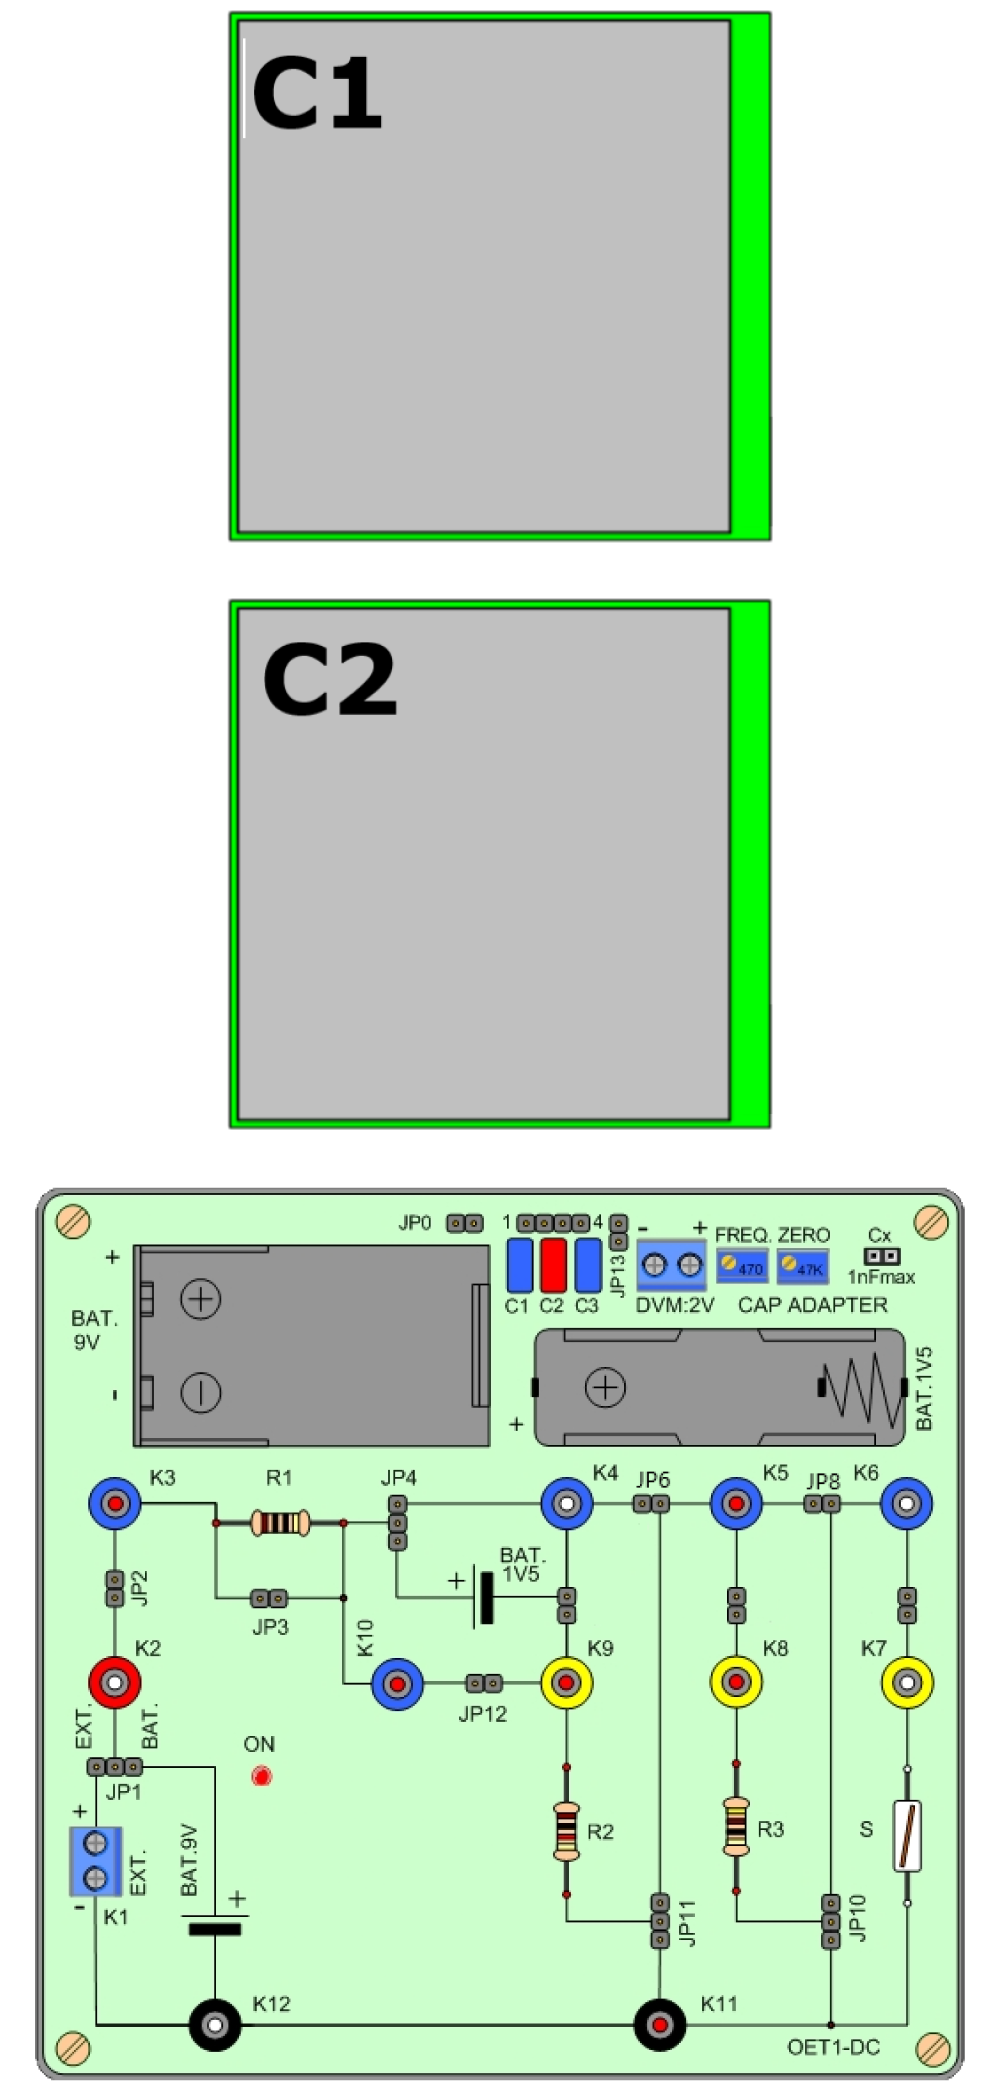
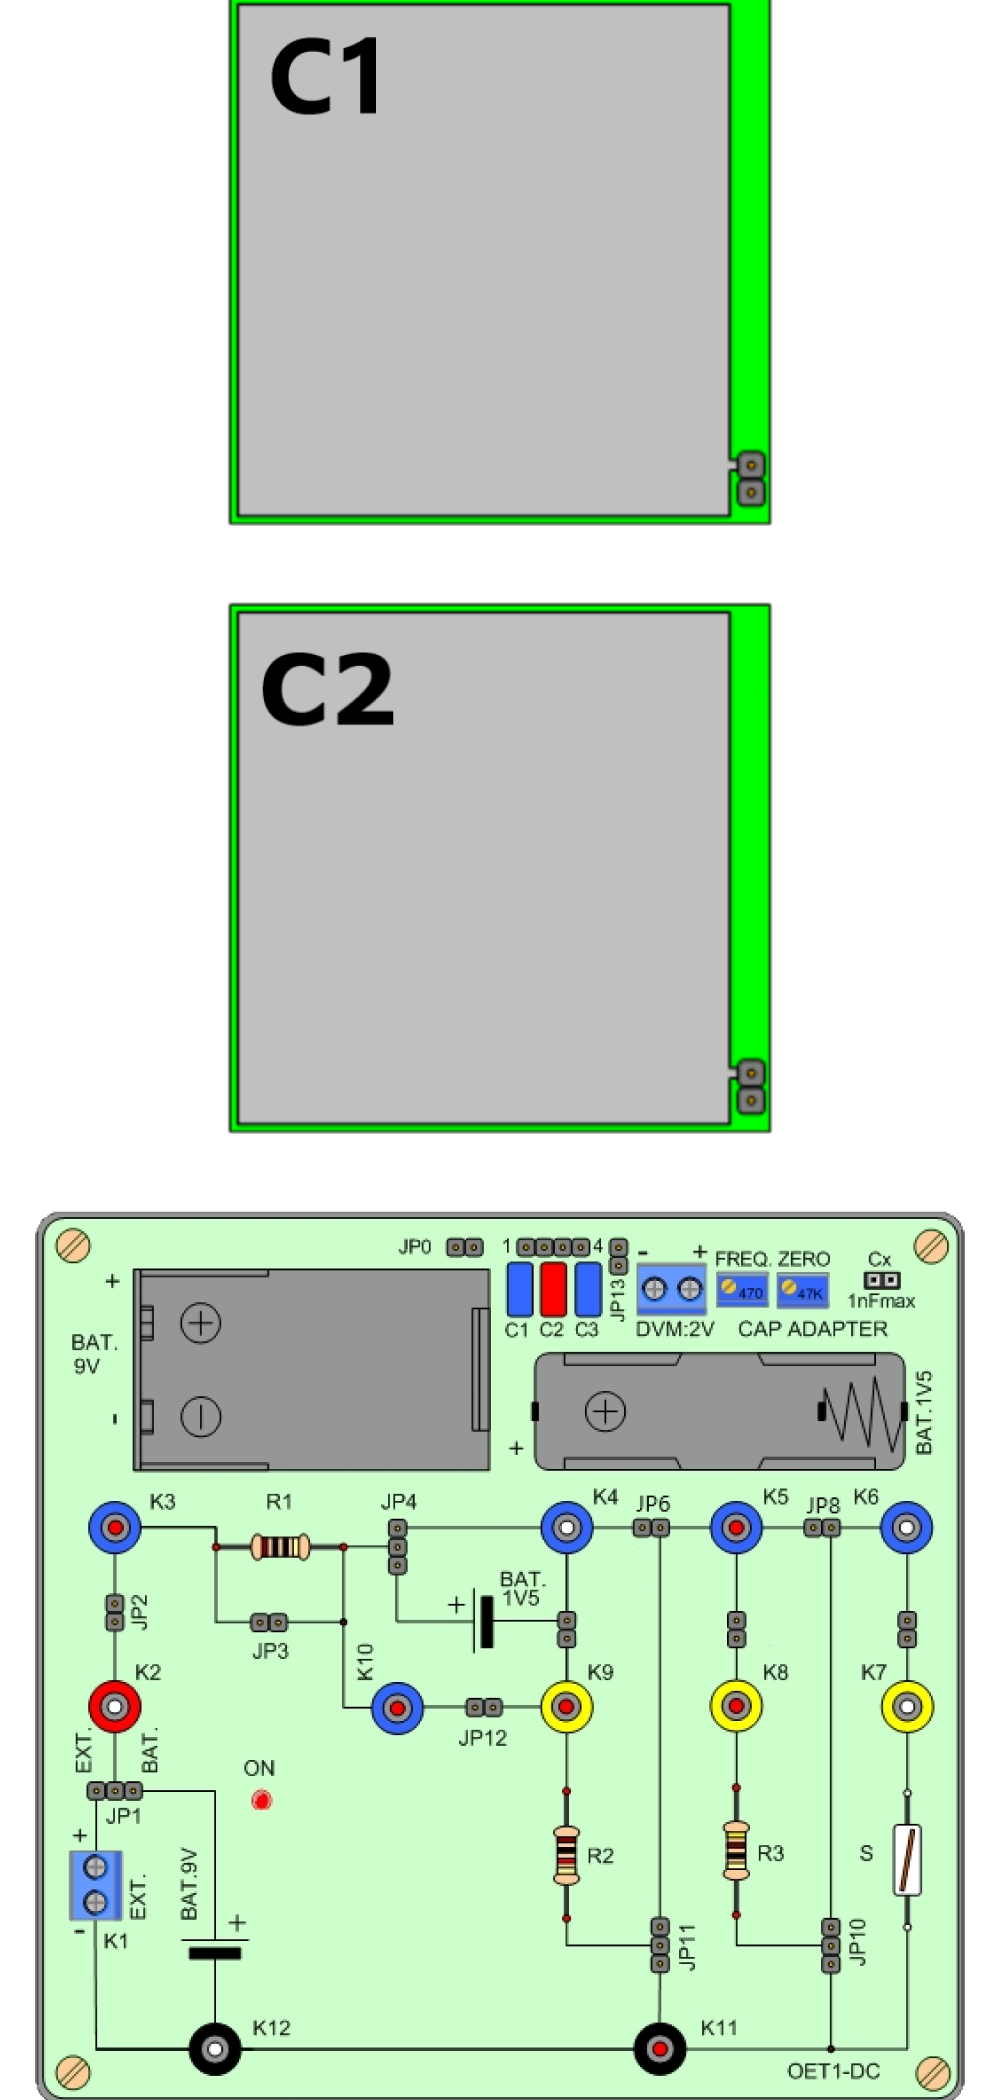
svgsFix

Changed region(s): [[0.031, 0.4952, 0.961, 1.0], [0.217, 0.0, 0.775, 0.3714]]

diff --git a/pages/maketa1.tsx b/pages/maketa1.tsx
@@ -88,14 +88,15 @@ const Maketa1 = () => {
             
             <div className={Styles.main2}>
                 <div className={Styles.maketaZaC}>
-                    <svg width="465" height="1036" viewBox="0 0 465 1036" fill="none" xmlns="http://www.w3.org/2000/svg" className={`${'Csvg'} ${C1? 'a6' : ''}`}>
-                        <path d="M 419.5 627 L 419.5 454 L 369 454" stroke="#FF0000" stroke-width="7" fill="none"/>
-                    </svg>
 
-                    <svg width="465" height="1036" viewBox="0 0 465 1036" fill="none" xmlns="http://www.w3.org/2000/svg" className={`${'Csvg'} ${C2? 'a6' : ''}`}>
-                        <path d="M 428.5 627.001 L 428.5 137 L 369 137" stroke="#FF0000" stroke-width="7" fill="none"/>
+                    <svg width="465" height="1056" viewBox="0 0 460 1048" fill="none" xmlns="http://www.w3.org/2000/svg" className={`${'Csvg'} ${C1? 'a6' : ''}`}>
+                        <path d="M419 646V553H354" stroke="#FF0000" stroke-width="7"/>
+                        <path d="M428 646V540H354" stroke="#FF0000" stroke-width="7"/>
                     </svg>
-
+                    <svg width="465" height="1056" viewBox="0 0 460 1048" fill="none" xmlns="http://www.w3.org/2000/svg" className={`${'Csvg'} ${C2? 'a6' : ''}`}>
+                        <path d="M419 646V249H354" stroke="#FF0000" stroke-width="7"/>
+                        <path d="M428 646V235H354" stroke="#FF0000" stroke-width="7"/>
+                    </svg>
                 </div>
 
                 <div className={Styles.kontrole2}>
